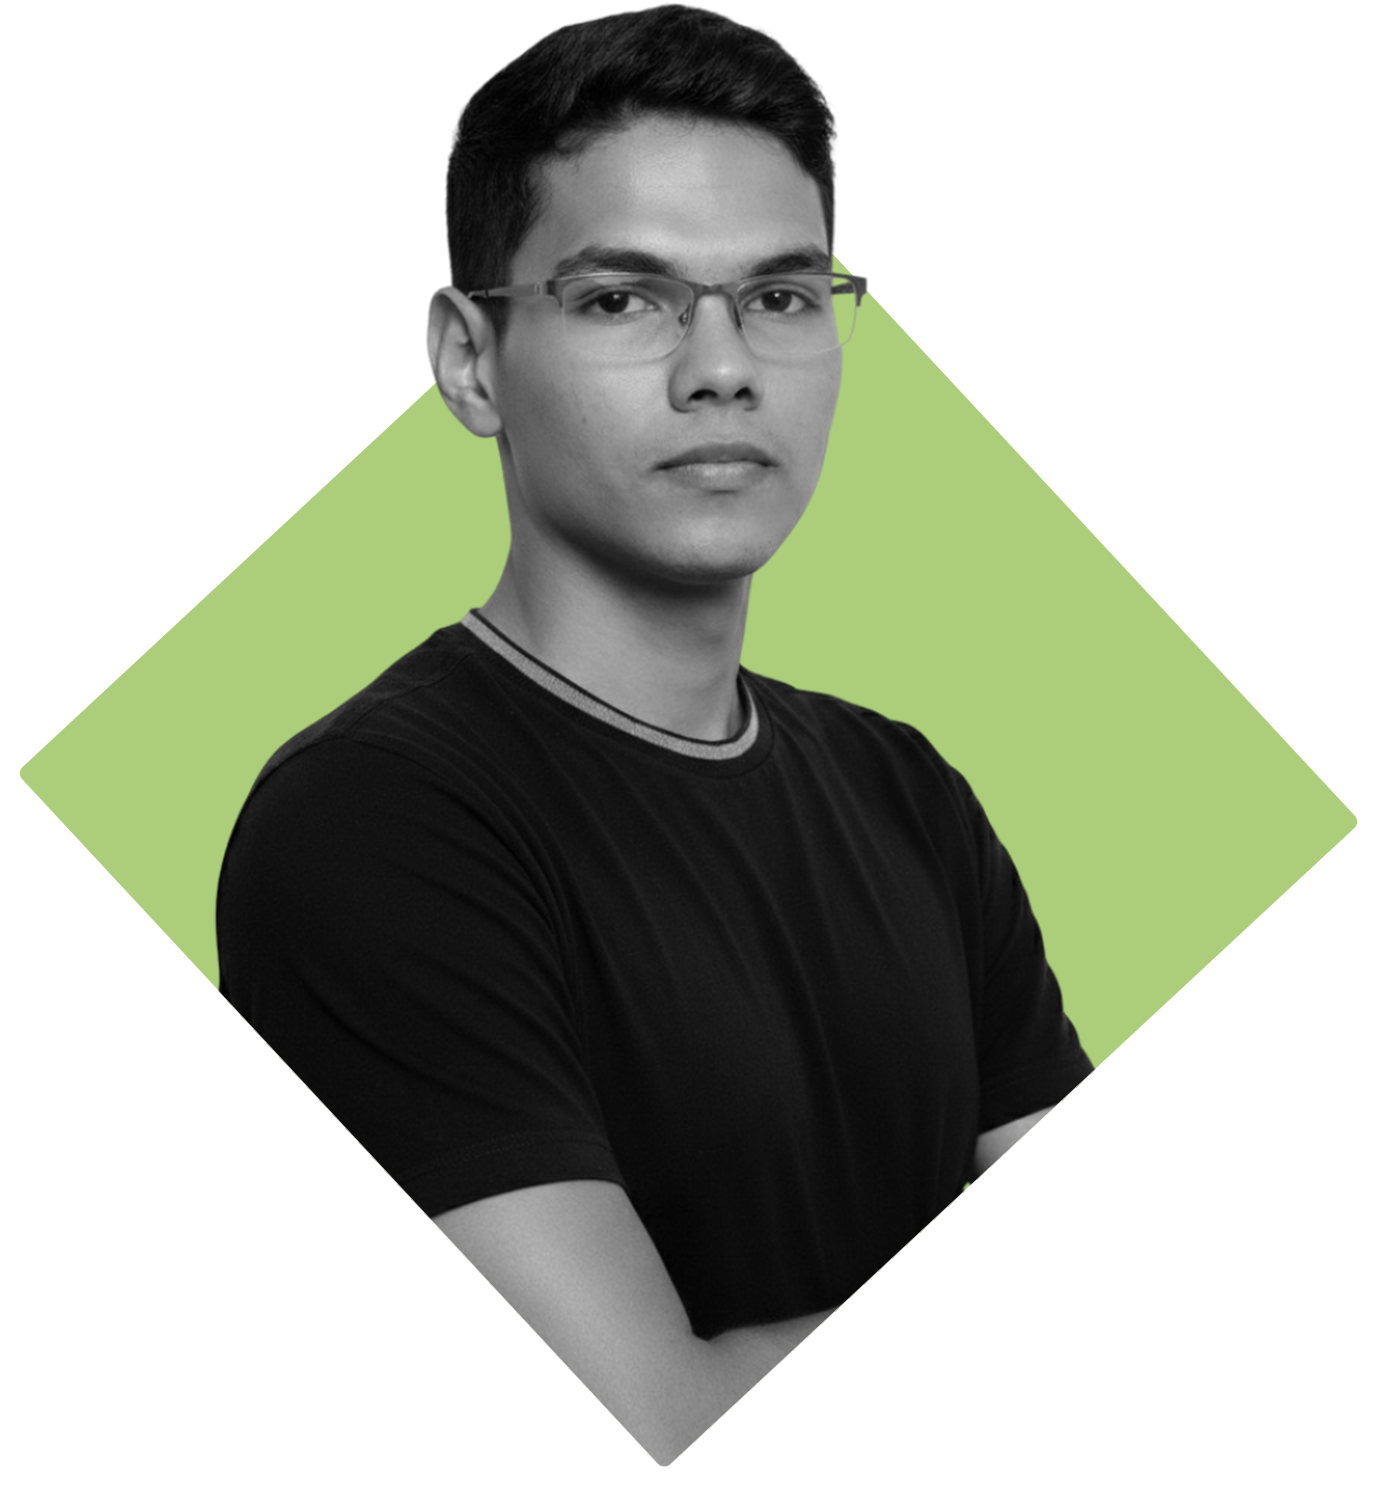
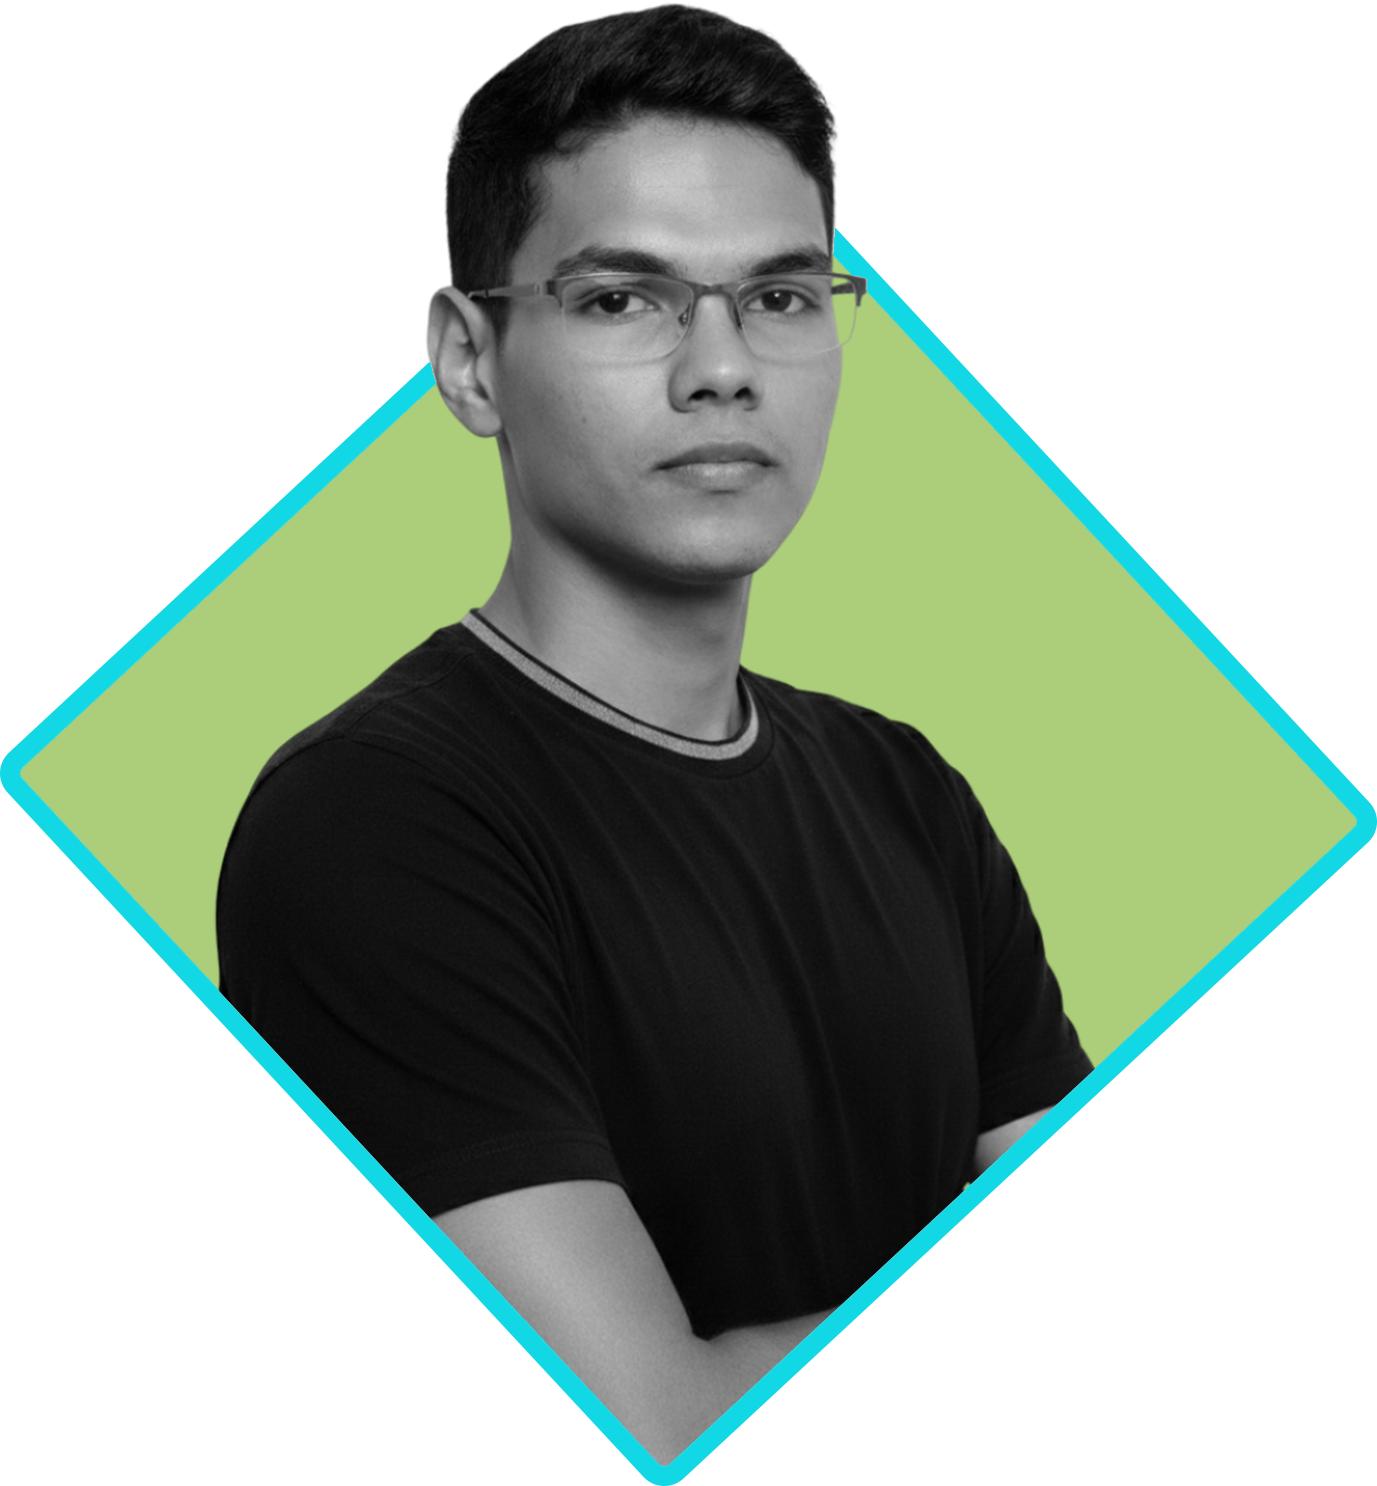
update

diff --git a/src/components/Hero.jsx b/src/components/Hero.jsx
@@ -14,7 +14,7 @@ export const Hero = () => {
         <h2 className="text-white/80 text-2xl text-shadow md:text-start md:pl-12">
           Desenvolvedor Front-End
         </h2>
-    <div id="CTA" className="mt-6 flex ml-5"><button className="scale-75 shadow-[inset_0_0_0_2px_#B2D649] text-primary px-12 py-4 rounded-full tracking-widest uppercase font-bold bg-transparent hover:bg-[#B2D649] hover:text-zinc-800 active:opacity-40 -mr-7">
+    <div id="CTA" className="mt-6 flex ml-5"><button className="scale-75 shadow-[inset_0_0_0_2px_#B2D649] text-zinc-800 px-12 py-4 rounded-full tracking-widest uppercase font-bold bg-[#B2D649]/90 hover:bg-[#B2D649] hover:text-zinc-800 active:opacity-40 -mr-7">
   Contato
 </button><button className="scale-75 shadow-[inset_0_0_0_2px_#B2D649] text-primary px-12 py-4 rounded-full tracking-widest uppercase font-bold bg-transparent hover:bg-[#B2D649] hover:text-zinc-800 active:opacity-40 ">
   Ver mais

diff --git a/src/components/Ckris.jsx b/src/components/Ckris.jsx
@@ -4,14 +4,14 @@ export default function Ckris() {
       <div className="animate-float-wrapper">
         <div
           id="animar"
-          className="mt-20 h-[250px] w-[250px] border-4 rounded-sm mb-[-290px] border-white rotate-45 z-10 bg-white/0"
+          className="mt-20 h-[250px] w-[250px] border-4 rounded-sm mb-[-290px] border-[#12d7e5] rotate-45 z-10 bg-white/0"
         ></div>
       </div>
       <img className="w-74 z-20" src="/ckris2.png" />
       <div className="animate-float-delayed-wrapper">
         <div
           id="animar"
-          className="h-[250px] w-[250px] border-4 rounded-sm mr-[7px] mt-[-240px] border-white rotate-45 z-10 bg-white/0"
+          className="h-[250px] w-[250px] border-4 rounded-sm mr-[7px] mt-[-240px] border-[#12d7e5] rotate-45 z-10 bg-white/0"
         ></div>
       </div>
     </div>
